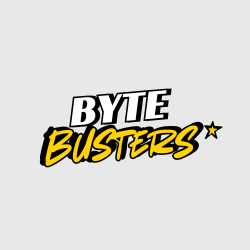
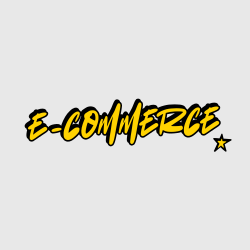
Add formulário email + mudança no projetos

Changed region(s): [[0.084, 0.336, 0.924, 0.672]]

diff --git a/index.html b/index.html
@@ -303,21 +303,21 @@
                                     projetos. Também foram utilizadas bibliotecas como Bootstrap para facilitar a
                                     criação dos layouts e responsividade.
                                 </p>
-                                <img src="assets/img/Projeto1-modal-img.jpeg" alt="Print do Projeto 1">
+                                <img src="assets/video/portfolio.gif" alt="Print do Projeto 1">
                             </div>
                         </div>
                     </div>
                 </div>
 
-                <!-- Projeto 3 -->
+                <!-- Projeto 2 -->
                 <div class="detalhes-container cor-container">
                     <div class="article-container">
                         <img src="assets/img/Projeto2-img.png" alt="Projeto 2" class="projeto-img">
                     </div>
-                    <h2 class="experiencia-subtitulo titulo-projeto">ByteBusters</h2>
+                    <h2 class="experiencia-subtitulo titulo-projeto">E-commerce</h2>
                     <div class="btn-container">
                         <button class="btn-cor-2 btn projeto-btn"
-                            onclick="location.href='https://github.com/pucmg-aulas/ByteBusters'">
+                            onclick="location.href='https://github.com/RafaelLopes1810/Ecommerce'">
                             GitHub
                         </button>
                         <button id="open-modal" class="btn-cor-2 btn projeto-btn">
@@ -326,17 +326,19 @@
                         <div id="fade" class="hide"></div>
                         <div id="modal" class="hide">
                             <div class="modal-header">
-                                <h2>Este é o Modal</h2>
+                                <h2>E-commerce</h2>
                                 <a id="close-modal">X</a>
                             </div>
                             <div class="modal-body">
                                 <p>
-                                    Lorem ipsum dolor sit amet consectetur, adipisicing elit. Hic, quam?
-                                    Quas accusantium id cupiditate iste veritatis repudiandae odio dolore
-                                    voluptas. Eum, deserunt quod. Sit similique laudantium assumenda
-                                    repellat vel necessitatibus.
+                                    Este projeto é um sistema de e-commerce simples desenvolvido com foco educacional.
+                                    No back-end, foi utilizado o .NET 8 com C#, estruturado com base na abordagem DDD
+                                    (Domain-Driven Design). O front-end foi construído com Angular 17 e TypeScript. Os
+                                    dados inicialmente foram armazenados localmente usando SQL Server e depois migrado
+                                    para um banco de dados SQL hospedado no Azure, permitindo conexão real com a nuvem.
+                                    O objetivo do projeto é integrar essas tecnologias em um fluxo completo de cadastro
+                                    e listagem de produtos, servindo como base para aplicações maiores e mais robustas.
                                 </p>
-                                <img src="assets/img/teste.png" alt="Print do Projeto 2">
                             </div>
                         </div>
                     </div>
@@ -359,15 +361,21 @@
                         <div id="fade" class="hide"></div>
                         <div id="modal" class="hide">
                             <div class="modal-header">
-                                <h2>Este é o Modal</h2>
+                                <h2>WorkLink</h2>
                                 <a id="close-modal">X</a>
                             </div>
                             <div class="modal-body">
                                 <p>
-                                    Lorem ipsum dolor sit amet consectetur, adipisicing elit. Hic, quam?
-                                    Quas accusantium id cupiditate iste veritatis repudiandae odio dolore
-                                    voluptas. Eum, deserunt quod. Sit similique laudantium assumenda
-                                    repellat vel necessitatibus.
+                                    Este projeto foi desenvolvido para a disciplina Trabalho Interdisciplinar 2, no
+                                    curso de Engenharia de Software. Trata-se de um sistema de divulgação de vagas de
+                                    emprego, no qual empresas podem cadastrar e divulgar suas oportunidades, enquanto
+                                    candidatos têm a possibilidade de visualizar e se candidatar às vagas disponíveis.
+                                    <br>
+                                    O sistema foi implementado utilizando as seguintes tecnologias: <br>
+                                    - MySQL para gerenciamento do banco de dados; <br>
+                                    - HTML, CSS e JavaScript para a construção do front-end; <br>
+                                    - Bootstrap para estilização responsiva; <br>
+                                    - Java com Spring Boot para o back-end e integração das funcionalidades. <br>
                                 </p>
                                 <img src="assets/img/teste.png" alt="Print do Projeto 3">
                             </div>
@@ -401,36 +409,19 @@
         </div>
 
         <!-- Formulário -->
-    <form id="form-contato">
-        <input type="text" name="user_name" placeholder="Nome" required>
-        <input type="email" name="user_email" placeholder="E-mail" required>
-        <textarea name="message" placeholder="Mensagem" required></textarea>
-        <button type="submit" class="btn btn-cor-1"><i class="fas fa-paper-plane"></i> Enviar</button>
-      </form>
-    </section>
-  
-    <!-- EmailJS -->
-    <script src="https://cdn.jsdelivr.net/npm/@emailjs/browser@4/dist/email.min.js"></script>
-    <script>
-      (function() {
-        emailjs.init({
-          publicKey: "GoqhGhuMUNsj44mkT"
-        });
-      })();
-  
-      document.getElementById("form-contato").addEventListener("submit", function(event) {
-        event.preventDefault();
-  
-        emailjs.sendForm("service_e5trhvm", "template_4hx8ig9", this)
-          .then(() => {
-            alert("Mensagem enviada com sucesso!");
-            this.reset();
-          }, (error) => {
-            alert("Erro ao enviar mensagem: " + JSON.stringify(error));
-          });
-      });
-    </script>
-  
+        <form id="form-contato">
+            <div class="linha-inputs">
+                <input type="text" name="user_name" placeholder="Nome" required>
+                <input type="email" name="user_email" placeholder="E-mail" required>
+            </div>
+
+            <div class="linha-mensagem">
+                <textarea name="message" placeholder="Mensagem" required></textarea>
+                <button type="submit" class="btn btn-cor-1">
+                    <img src="./assets/img/mandar.png" alt="Ícone" class="icone">
+                </button>
+            </div>
+        </form>
     </section>
 
     <footer>
@@ -448,6 +439,7 @@
     </footer>
 
     <script src="assets/script.js"></script>
+    <script src="https://cdn.jsdelivr.net/npm/@emailjs/browser@4/dist/email.min.js"></script>
 </body>
 
 </html>

diff --git a/assets/style.css b/assets/style.css
@@ -20,12 +20,14 @@ p {
 }
 
 /* TRANSIÇÃO */
-a, .btn {
+a,
+.btn {
     transition: all 300ms ease;
 }
 
 /* NAV PC */
-nav, .link-nav {
+nav,
+.link-nav {
     display: flex;
 }
 
@@ -220,15 +222,18 @@ section {
     border-radius: 2rem;
 }
 
-.btn-cor-1, .btn-cor-2 {
+.btn-cor-1,
+.btn-cor-2 {
     border: rgb(53, 53, 53) 0.14rem solid;
 }
 
-.btn-cor-1:hover, .btn-cor-2:hover {
+.btn-cor-1:hover,
+.btn-cor-2:hover {
     cursor: pointer;
 }
 
-.btn-cor-1, .btn-cor-2:hover {
+.btn-cor-1,
+.btn-cor-2:hover {
     background: rgb(53, 53, 53);
     color: white;
 }
@@ -254,26 +259,27 @@ section {
 #sobre {
     position: relative;
 }
-  
+
 .sobre-containers {
     gap: 2rem;
     margin-bottom: 2rem;
     margin-top: 2rem;
 }
-  
+
 .sobre-detalhes-container {
     justify-content: center;
     flex-direction: column;
 }
-  
-.sobre-containers, .sobre-detalhes-container {
+
+.sobre-containers,
+.sobre-detalhes-container {
     display: flex;
 }
-  
+
 .sobre-foto {
     border-radius: 2rem;
 }
-  
+
 .seta {
     position: absolute;
     right: -5rem;
@@ -376,7 +382,7 @@ article .icone {
     background-color: rgba(0, 0, 0, 0.6);
     z-index: 5;
 }
-  
+
 #modal {
     position: fixed;
     left: 50%;
@@ -389,14 +395,14 @@ article .icone {
     border-radius: 0.5rem;
     z-index: 10;
 }
-  
+
 #fade,
 #modal {
     transition: 0.5s;
     opacity: 1;
     pointer-events: all;
 }
-  
+
 .modal-header {
     display: flex;
     justify-content: space-between;
@@ -405,17 +411,17 @@ article .icone {
     margin-bottom: 1rem;
     padding-bottom: 1rem;
 }
-  
+
 .modal-body p {
     margin-bottom: 1rem;
 }
-  
+
 #modal.hide,
 #fade.hide {
     opacity: 0;
     pointer-events: none;
 }
-  
+
 #modal.hide {
     top: 0;
 }
@@ -454,7 +460,7 @@ article .icone {
     height: 70vh;
 }
 
-.info-contato-cima-container{
+.info-contato-cima-container {
     display: flex;
     justify-content: center;
     border-radius: 2rem;
@@ -479,11 +485,64 @@ article .icone {
 
 .icone-contato {
     cursor: default;
-    
+
 }
 
 .icone-email {
     height: 2.5rem;
+}
+
+/* FORMULÁRIO */
+#form-contato {
+    display: flex;
+    flex-direction: column;
+    gap: 1rem;
+    max-width: 600px;
+    margin: 0 auto;
+}
+
+#form-contato .linha-inputs {
+    width: 35rem;
+    display: flex;
+    gap: 1rem;
+}
+
+#form-contato input[type="text"],
+#form-contato input[type="email"] {
+    flex: 1;
+    padding: 0.8rem;
+    border: 1px solid #ccc;
+    border-radius: 20px;
+}
+
+#form-contato .linha-mensagem {
+    display: flex;
+    gap: 1rem;
+}
+
+#form-contato textarea {
+    flex: 1;
+    padding: 0.8rem;
+    border: 1px solid #ccc;
+    border-radius: 10px;
+    resize: none;
+    min-height: 100px;
+}
+
+#form-contato button {
+    align-self: center;
+    padding: 0.8rem 1.2rem;
+    border: none;
+    height: 10rem;
+    width: 5rem;
+    border-radius: 1rem;
+    background-color: #eee;
+    cursor: pointer;
+    box-shadow: rgba(0, 0, 0, 0.15) 1.95px 1.95px 2.6px;
+}
+
+#form-contato button:hover {
+    background-color: #ddd;
 }
 
 /* FOOTER */
@@ -492,6 +551,6 @@ footer {
     margin: 0 1rem;
 }
 
-footer p{
+footer p {
     text-align: center;
 }

diff --git a/assets/script.js b/assets/script.js
@@ -1,9 +1,9 @@
 // Abre menu mobile
 function ativaMenu() {
-    const menu = document.querySelector('.links-menu');
-    const icon = document.querySelector('.icone-mobile');
-    menu.classList.toggle('ativo');
-    icon.classList.toggle('ativo');
+  const menu = document.querySelector('.links-menu');
+  const icon = document.querySelector('.icone-mobile');
+  menu.classList.toggle('ativo');
+  icon.classList.toggle('ativo');
 }
 
 // Modal
@@ -23,4 +23,24 @@ document.querySelectorAll('.detalhes-container').forEach((card) => {
   openBtn.addEventListener('click', toggle);
   closeBtn.addEventListener('click', toggle);
   fade.addEventListener('click', toggle);
+});
+
+
+// EmailJS
+(function () {
+  emailjs.init({
+    publicKey: "GoqhGhuMUNsj44mkT"
+  });
+})();
+
+document.getElementById("form-contato").addEventListener("submit", function (event) {
+  event.preventDefault();
+
+  emailjs.sendForm("service_e5trhvm", "template_4hx8ig9", this)
+    .then(() => {
+      alert("Mensagem enviada com sucesso!");
+      this.reset();
+    }, (error) => {
+      alert("Erro ao enviar mensagem: " + JSON.stringify(error));
+    });
 });
